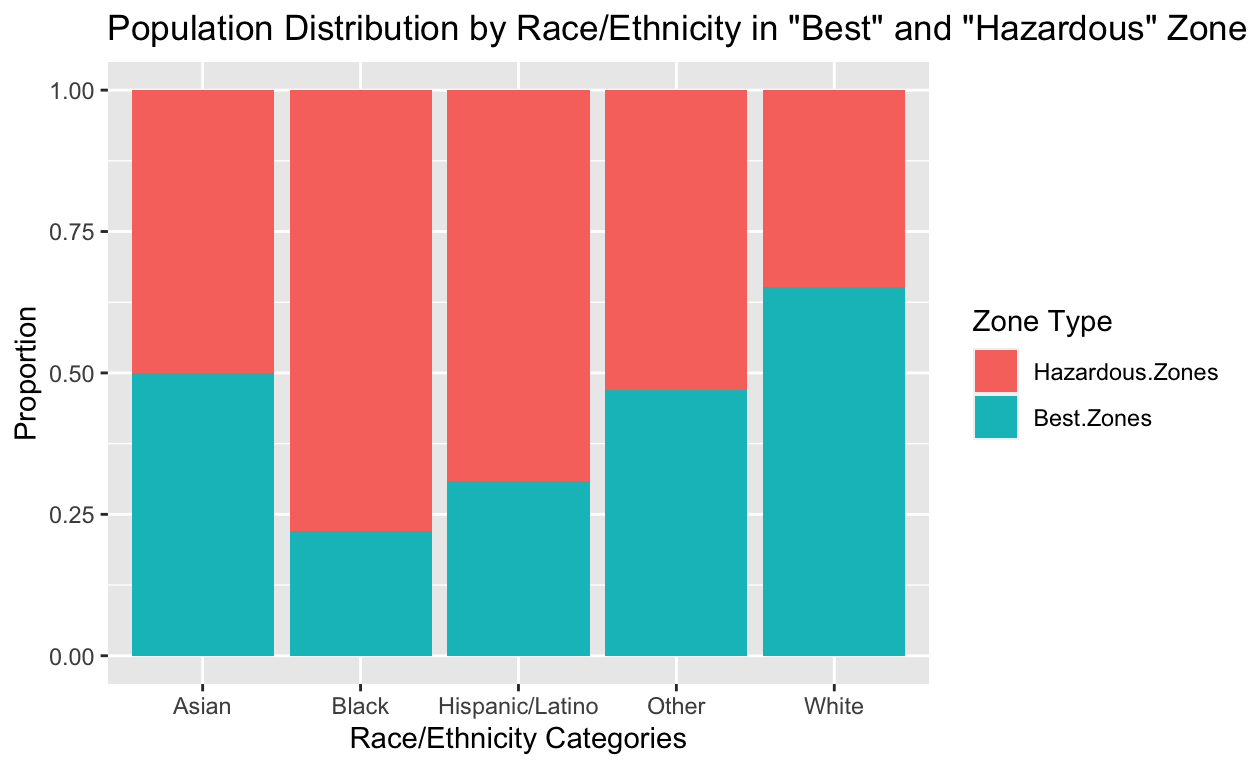
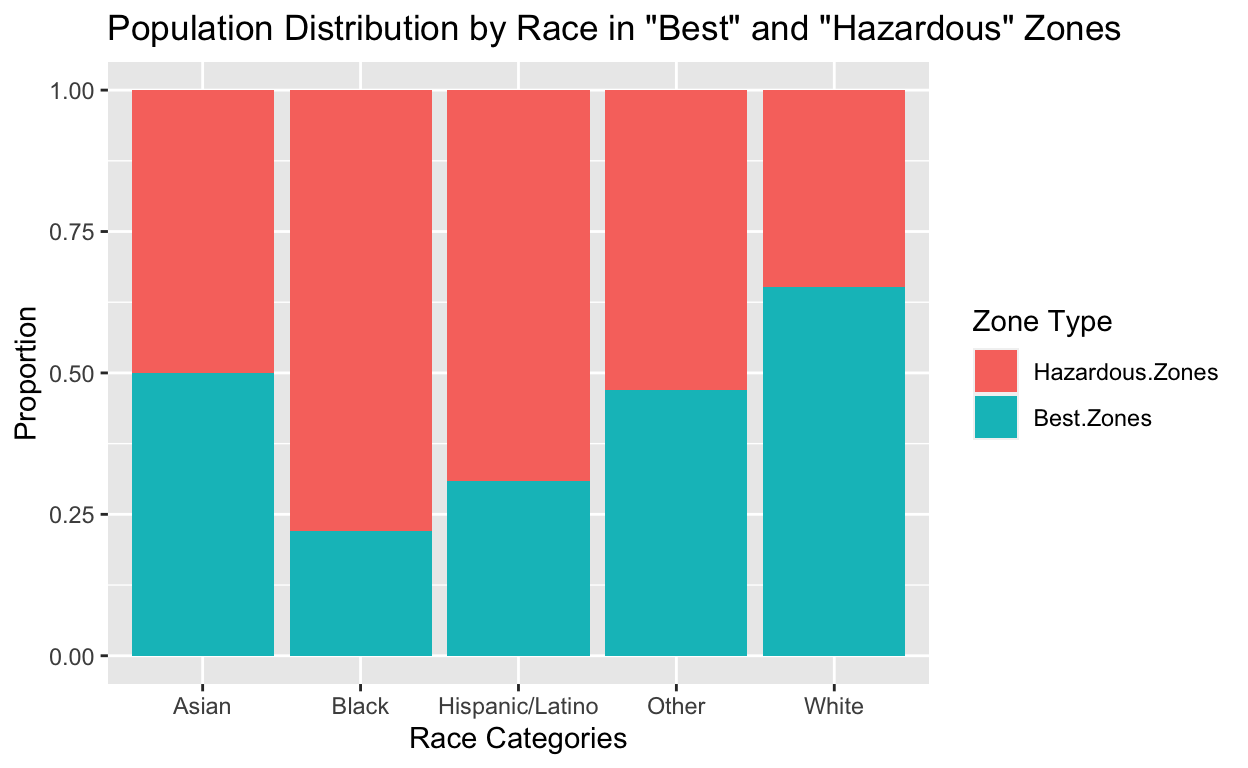
Actual final

Changed region(s): [[0.4688, 0.0, 1.0, 0.0625], [0.2812, 0.9375, 0.5625, 1.0]]

diff --git a/index.html b/index.html
@@ -1562,8 +1562,8 @@ Caption: HOLC Redlining Map of Greater Boston Area compared to contemporary publ
 <span>  <span class='fu'><a href='https://ggplot2.tidyverse.org/reference/geom_bar.html'>geom_bar</a></span><span class='op'>(</span>stat <span class='op'>=</span> <span class='st'>'identity'</span>, position <span class='op'>=</span> <span class='st'>'fill'</span><span class='op'>)</span> <span class='op'>+</span></span>
 <span>  <span class='fu'><a href='https://ggplot2.tidyverse.org/reference/labs.html'>labs</a></span><span class='op'>(</span></span>
 <span>    title <span class='op'>=</span> </span>
-<span>      <span class='st'>'Population Distribution by Race/Ethnicity in "Best" and "Hazardous" Zones'</span>,</span>
-<span>       x <span class='op'>=</span> <span class='st'>'Race/Ethnicity Categories'</span>, y <span class='op'>=</span> <span class='st'>'Proportion'</span><span class='op'>)</span> <span class='op'>+</span></span>
+<span>      <span class='st'>'Population Distribution by Race in "Best" and "Hazardous" Zones'</span>,</span>
+<span>       x <span class='op'>=</span> <span class='st'>'Race Categories'</span>, y <span class='op'>=</span> <span class='st'>'Proportion'</span><span class='op'>)</span> <span class='op'>+</span></span>
 <span>  <span class='fu'><a href='https://ggplot2.tidyverse.org/reference/guides.html'>guides</a></span><span class='op'>(</span>fill <span class='op'>=</span> <span class='fu'><a href='https://ggplot2.tidyverse.org/reference/guide_legend.html'>guide_legend</a></span><span class='op'>(</span>title <span class='op'>=</span> <span class='st'>'Zone Type'</span><span class='op'>)</span><span class='op'>)</span></span></code></pre>
 </div>
 <p><img src="index_files/figure-html5/summarizing%20dependent%20variable%20barplot-1.png" width="624" /></p>
@@ -1603,7 +1603,8 @@ Caption: HOLC Redlining Map of Greater Boston Area compared to contemporary publ
 <span><span class='va'>summary_table</span> <span class='op'>&lt;-</span> <span class='fu'><a href='https://generics.r-lib.org/reference/tidy.html'>tidy</a></span><span class='op'>(</span><span class='va'>model</span><span class='op'>)</span></span>
 <span></span>
 <span><span class='fu'><a href='https://rdrr.io/pkg/knitr/man/kable.html'>kable</a></span><span class='op'>(</span><span class='va'>summary_table</span>, </span>
-<span>      col.names <span class='op'>=</span> <span class='fu'><a href='https://rdrr.io/r/base/c.html'>c</a></span><span class='op'>(</span><span class='st'>"Variable"</span>, <span class='st'>"Coefficient"</span>, <span class='st'>"Std. Error"</span>, <span class='st'>"t-value"</span>, <span class='st'>"p-value"</span><span class='op'>)</span>,</span>
+<span>      col.names <span class='op'>=</span> <span class='fu'><a href='https://rdrr.io/r/base/c.html'>c</a></span><span class='op'>(</span><span class='st'>"Variable"</span>, <span class='st'>"Coefficient"</span>, <span class='st'>"Std. Error"</span>, </span>
+<span>                    <span class='st'>"t-value"</span>, <span class='st'>"p-value"</span><span class='op'>)</span>,</span>
 <span>      digits <span class='op'>=</span> <span class='fl'>3</span><span class='op'>)</span></span></code></pre>
 </div>
 <table>
